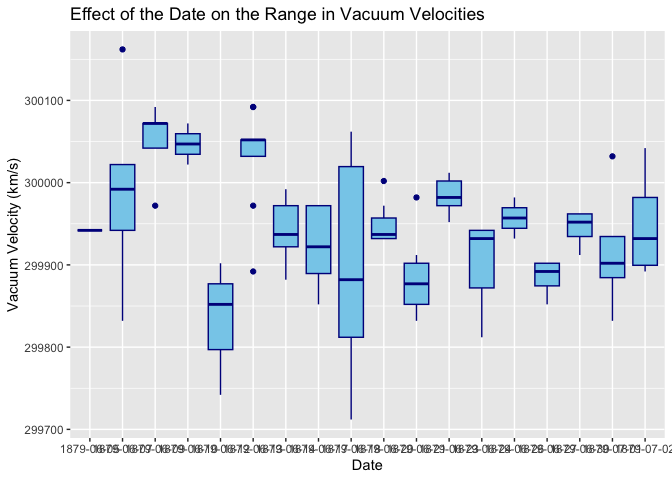
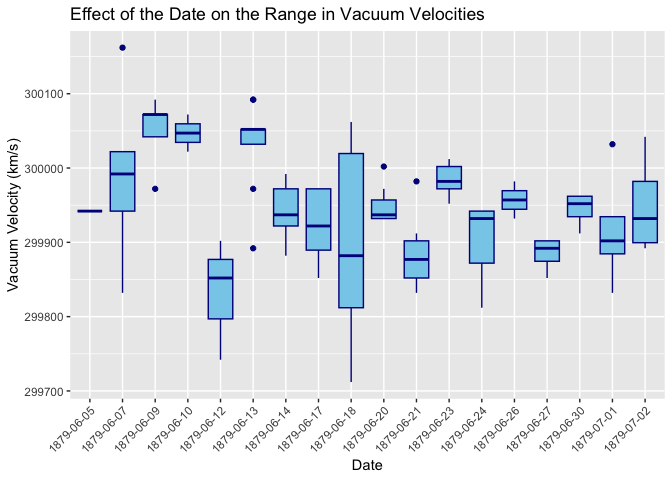
Challenge 2 Revisions

diff --git a/data-science-curriculum-build-2/challenges/c02-michelson-assignment.md b/data-science-curriculum-build-2/challenges/c02-michelson-assignment.md
@@ -1,7 +1,7 @@
 Michelson Speed-of-light Measurements
 ================
-(Your name here)
-2020-
+Aidan Schneider
+02-14-2025
 
 - [Grading Rubric](#grading-rubric)
   - [Individual](#individual)
@@ -174,8 +174,8 @@ in the dataset.
 
 ``` r
 ## TODO: Adjust the data, assign to df_q2
-df_q2 <- df_michelson
-df_q2$VelocityVacuum <- df_q2$Velocity + 92
+df_q2 <- df_michelson %>% 
+  mutate(VelocityVacuum = Velocity + 92)
   
 df_q2
 ```
@@ -250,7 +250,7 @@ if (true_error > uncertain_range) {
 
 **Observations**: - Is Michelson’s estimate of the error (his
 uncertainty) greater or less than the true error? - I found that
-Michelson’s uncertainty is greater than the true error - Make a
+Michelson’s uncertainty is less than the true error - Make a
 quantitative comparison between Michelson’s uncertainty and his error. -
 The true error is 151.542 km/s, while Michelson’s uncertainty is 102
 km/s - This may be due to human error or error in instrumentation at the
@@ -377,7 +377,8 @@ ggplot(df_q5, aes(x = as.factor(Date), y = VelocityVacuum)) +
     title = "Effect of the Date on the Range in Vacuum Velocities",
     x = "Date",
     y = "Vacuum Velocity (km/s)"
-  )  
+  ) +
+  theme(axis.text.x = element_text(angle = 45, vjust = 1, hjust = 1)) 
 ```
 
 ![](c02-michelson-assignment_files/figure-gfm/unnamed-chunk-3-1.png)<!-- -->
